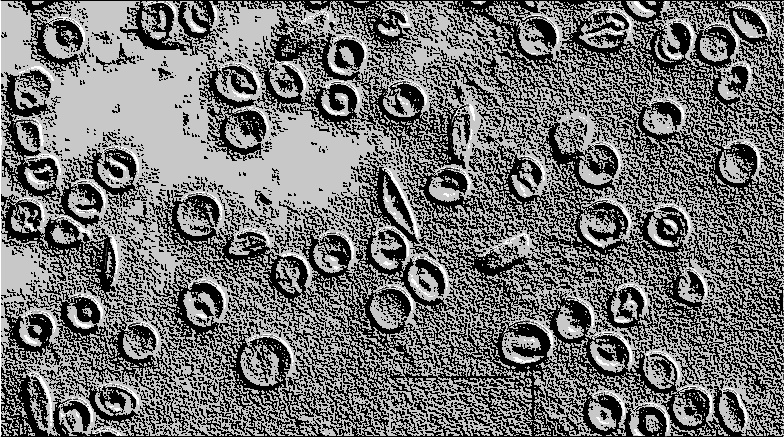
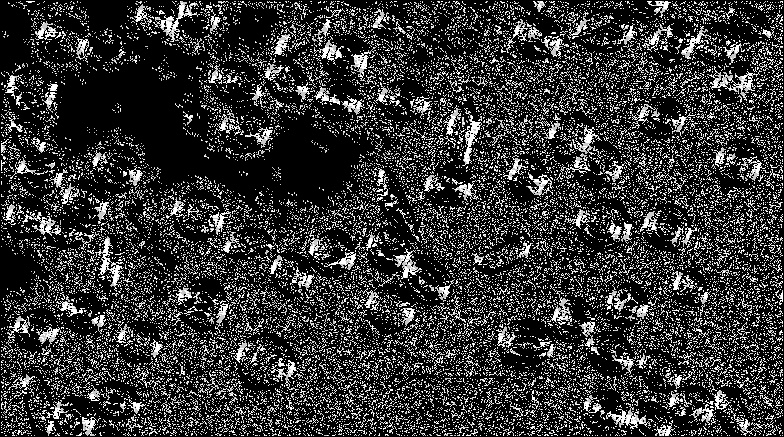
I think done cwk5

diff --git a/cwk5/cwk5.cpp b/cwk5/cwk5.cpp
@@ -107,7 +107,7 @@ bool isRightMostColumn(int i, int width, int height) {
 int convolve(unsigned char* image, int i, int tmplt[3][3], int width, int height) { 
     int sum = 0;
 
-    sum += image[i];
+    //sum += image[i];
     if (!isTopRow(i, width,height)) {  // One pixel up
         sum += image[i - width] * tmplt[0][1];
         
@@ -144,26 +144,30 @@ unsigned char * edge_detect(unsigned char *image, int width,
                                                   int height,
                                                   unsigned char *magImage,
                                                   unsigned char *orientationImage) {
-    int horiz[3][3] = { {-1, -1, -1},
+    int horiz[3][3] = { {-1, -2, -1},
                         {0 ,  0,  0},
-                        {1 ,  1,  1}};
+                        {1 ,  2,  1}};
     int verti[3][3] = { {-1, 0, 1},
-                        {-1, 0, 1},
+                        {-2, 0, 2},
                         {-1, 0, 1}};
     
-    
-    for (int i = 0; i < width * height; i++) {
+    for (int i = width; i < (width-1) * height; i++) {
+
+        if (isLeftMostColumn(i, width, height) || isRightMostColumn(i,width,height))
+            continue;
         int horizontal = convolve(image, i, horiz, width, height);        
         int vertical = convolve(image, i, verti, width, height);
 
+     
         int mag = (int)sqrt(pow(horizontal, 2) + pow(vertical, 2));
-        int ori = 255;
+        int ori = 0;
 
         if (horizontal != 0) {
             ori = (int)(atan(vertical / horizontal) * 255);
-            ori = ori > 255 ? 255 : ori;
+printf("%d\n", ori);
+            ori = ori < 0 ? 0 : ori;
+            ori = ori > 255 ? 255 : ori ;
         } 
-
         magImage[i] = mag > 255 ? 255 : 0;
         orientationImage[i] = ori;
 
@@ -215,14 +219,17 @@ int main(int argc, char *argv[])
   int width, height, channels, i;
   read_JPEG_file(argv[1], &width, &height, &channels, &image);
 
+  unsigned char *medianImage = median(image, width,height);
+
   unsigned char* magImage = (unsigned char *)malloc(sizeof(char) * width * height);
   unsigned char* orientationImage = (unsigned char *)malloc(sizeof(char) * width * height);
+  
   edge_detect(image, width, height, magImage, orientationImage);
 
   write_JPEG_file(argv[2], width, height, channels, magImage, 95);
   write_JPEG_file(argv[3], width, height, channels, orientationImage, 95);
   
-  write_JPEG_file(argv[4], width, height, channels, median(image, width, height), 95);
+  write_JPEG_file(argv[4], width, height, channels, medianImage, 95);
 
   return 0;
 }
